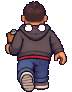
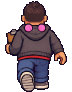
v0.10.1: accessory fitting per race/view, preview fits, taller mirror, Maga headphones
Claude-Session: https://claude.ai/code/session_01PBALkHt1LDsj9qFTCzLfy6

Changed region(s): [[0.3333, 0.2609, 0.4444, 0.3478], [0.5278, 0.2609, 0.6389, 0.3478], [0.4444, 0.7609, 0.4722, 0.7826]]

diff --git a/tools/import_art_v10.py b/tools/import_art_v10.py
@@ -42,7 +42,14 @@ def frames_on_canvas(frames):
 
 
 def char8(sheet, kind, target_h):
-    a = clean_specks(load_rgba(sheet))
+    a = load_rgba(sheet)
+    if sheet == 47:
+        # розовые наушники Маги близки к фону: возвращаем пиксели, где красный заметно больше синего
+        raw = np.array(Image.open(os.path.join(SRC, "sheet%02d.png" % sheet)).convert("RGBA"))
+        r, b = raw[..., 0].astype(int), raw[..., 2].astype(int)
+        keep = (a[..., 3] == 0) & (r - b > 35) & (r > 150)
+        a[keep] = raw[keep]
+    a = clean_specks(a)
     it = find_items(a, 2, 4)
     scale = target_h / (it[0][3] - it[0][1])
     fr = frames_on_canvas([crop_scaled(a, b, scale) for b in it])
